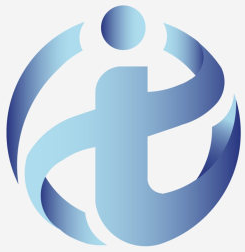
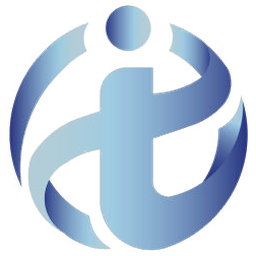
Icône d'onglet : symbole IMMO sans fond sur le site et l'admin
- Site public : l'onglet affichait le symbole sur un carré bleu (icons/icon-192.png via
  /favicon.ico). Nouvelle icône icons/favicon.png (symbole transparent, 256 px, même
  source que l'admin), liée dans les métadonnées et servie pour /favicon.ico ; app/icon.png
  remplacé (il avait un fond gris opaque). Nouveau nom de fichier : pas d'ancienne icône
  servie par le cache du service worker.
- Admin : favicon.ico (vide) remplacé par le même symbole transparent (16 à 64 px).
- Icônes d'application (PWA, écran d'accueil Apple) inchangées : un fond y est nécessaire.

diff --git a/immo-front/src/app/layout.tsx b/immo-front/src/app/layout.tsx
@@ -23,7 +23,8 @@ export async function generateMetadata(): Promise<Metadata> {
     description: seo.description,
     openGraph: { title: seo.title, description: seo.description, siteName: name, locale: t.meta.ogLocale, type: 'website', images: [DEFAULT_OG_IMAGE] },
     twitter: { card: 'summary_large_image', images: [DEFAULT_OG_IMAGE] },
-    icons: { apple: '/icons/apple-touch-icon.png' },
+    // Onglet : symbole seul sur fond transparent, identique à l'admin Laravel. L'icône Apple (écran d'accueil) garde son fond.
+    icons: { icon: [{ url: '/icons/favicon.png', type: 'image/png', sizes: '256x256' }], apple: '/icons/apple-touch-icon.png' },
     appleWebApp: { capable: true, title: 'IMMO', statusBarStyle: 'black-translucent' },
   };
 }
